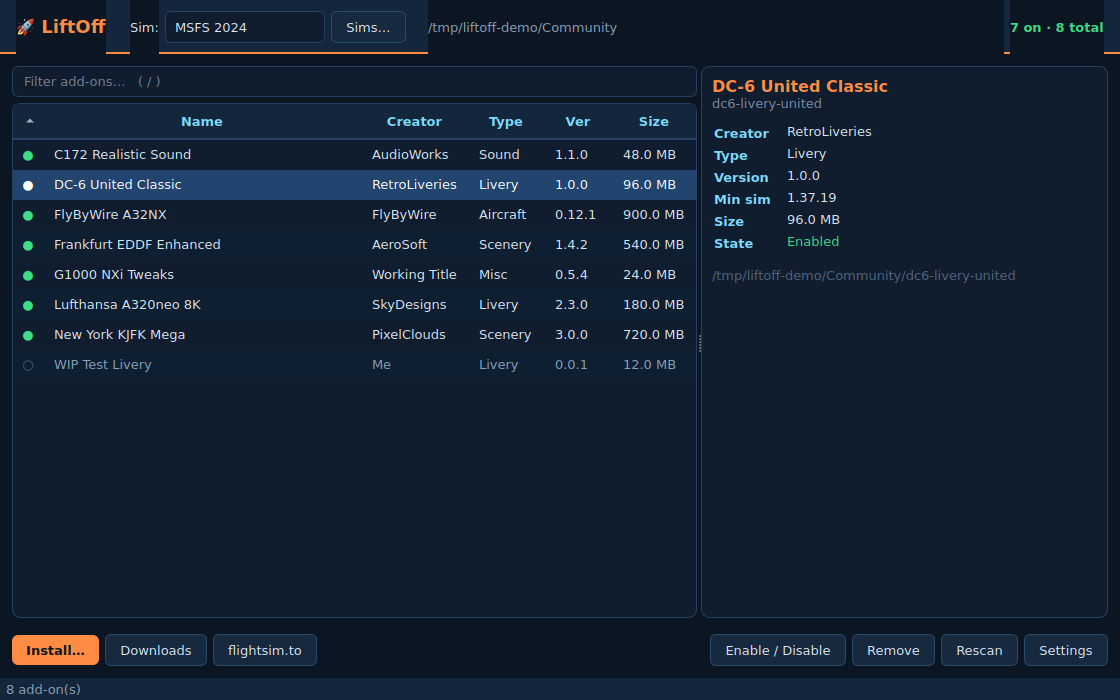
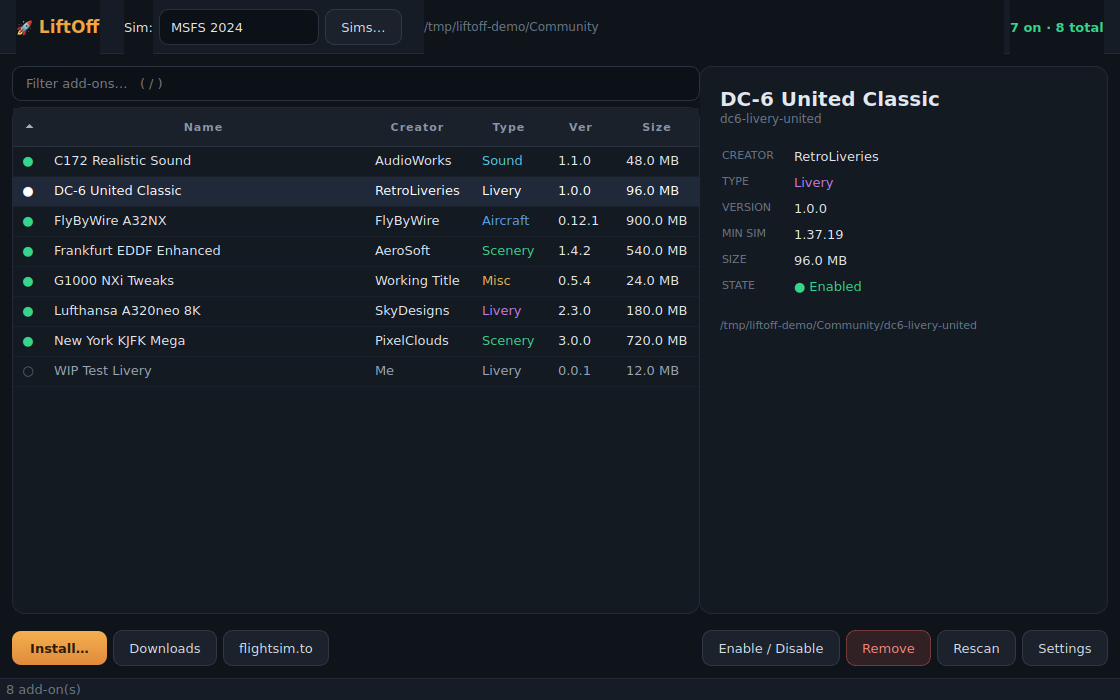
Redesign GUI: dark cockpit theme with color-coded add-on types
Apply the uploaded redesign as a drop-in theme module:
- New liftoff/theme.py holds the Qt stylesheet, detail-panel renderer and
  welcome text — a refined dark "cockpit" palette, pill buttons (amber
  gradient primary, red danger), softer table and richer detail panel.
- gui.py delegates the stylesheet and detail HTML to theme.py; the Type
  column and the detail panel are now color-coded per add-on type, and the
  Remove button uses the red "danger" style.

Pure restyle — no logic changes; full suite still passes, plus a new
color-coding test.

Claude-Session: https://claude.ai/code/session_01Y7d4AmM2GSc4kMKRnyAdYQ

diff --git a/liftoff/theme.py b/liftoff/theme.py
@@ -1,0 +1,204 @@
+"""LiftOff redesigned theme — the PySide6 stylesheet and detail-panel renderer.
+
+Refined dark "cockpit" palette (warm-amber brand, cockpit-green active signal,
+color-coded add-on types), tighter spacing, pill buttons, softer table.
+
+Qt Style Sheets only support a CSS2-ish subset (hex/rgb/rgba, qlineargradient —
+NO oklch, NO flexbox, NO text-transform), so the design's oklch tokens are
+converted to the hex equivalents below.
+
+Fonts: IBM Plex Sans / Mono and Space Grotesk give the intended look; if they
+aren't installed the stack falls back to the system UI font cleanly. To ship
+the exact type, bundle the .ttf files and load them with QFontDatabase at start.
+"""
+
+from html import escape
+
+# ---- palette (oklch -> hex) -------------------------------------------------
+BG_APP = "#0f141b"       # window background        oklch(0.16 0.012 258)
+BG_PANEL = "#161c25"     # topbar / status / footer oklch(0.205 0.014 258)
+BG_SURFACE = "#141a22"   # table / details / lists  oklch(0.195 0.013 258)
+BG_RAIL = "#11161d"      # left rail                oklch(0.18 0.012 258)
+ROW_HOVER = "#1b222c"    #                          oklch(0.235 0.016 258)
+ROW_SEL = "#20293a"      # selected row (bluish)    oklch(0.27 0.032 258)
+HEADER_BG = "#1a212b"
+BORDER = "#2a323f"       #                          oklch(0.30 0.018 258)
+BORDER_SOFT = "#232a35"  #                          oklch(0.27 0.016 258)
+DIVIDER = "#1b212b"
+
+TXT = "#e3e8ef"          #                          oklch(0.93 0.008 258)
+TXT_MUTED = "#9aa6b5"    #                          oklch(0.70 0.018 258)
+TXT_FAINT = "#6b7888"    #                          oklch(0.52 0.02 258)
+
+AMBER = "#f2a541"        # brand / primary          oklch(0.82 0.13 72)
+AMBER_DEEP = "#e08a3c"
+GREEN = "#35d68a"        # enabled / active         oklch(0.80 0.15 155)
+RED = "#e8635a"          # remove / danger
+
+# add-on type accents (shared L/C, varied hue) -------------------------------
+TYPE_AIRCRAFT = "#5aa0f2"
+TYPE_LIVERY = "#c77ce8"
+TYPE_SCENERY = "#3fd08a"
+TYPE_SOUND = "#56c8e0"
+TYPE_MISC = "#f0b455"
+TYPE_INSTRUMENTS = "#ef7ba8"
+
+TYPE_COLORS = {
+    "Aircraft": TYPE_AIRCRAFT, "Livery": TYPE_LIVERY, "Scenery": TYPE_SCENERY,
+    "Sound": TYPE_SOUND, "Misc": TYPE_MISC, "Instruments": TYPE_INSTRUMENTS,
+}
+
+QSS = f"""
+* {{ font-family: 'IBM Plex Sans','Segoe UI',sans-serif; font-size: 13px; }}
+QMainWindow, QDialog, QWidget {{ background: {BG_APP}; color: {TXT}; }}
+
+/* ---- topbar ---- */
+QFrame#topbar {{ background: {BG_PANEL}; border-bottom: 1px solid {BORDER_SOFT}; }}
+QLabel#brand  {{ color: {AMBER}; font-family: 'Space Grotesk','IBM Plex Sans',sans-serif;
+                 font-size: 17px; font-weight: 700; }}
+QLabel#path   {{ color: {TXT_FAINT}; font-family: 'IBM Plex Mono','Consolas',monospace;
+                 font-size: 12px; }}
+QLabel#counts {{ color: {GREEN}; font-weight: 600; }}
+QLabel#hint   {{ color: {TXT_FAINT}; }}
+
+/* ---- inputs ---- */
+QLineEdit, QComboBox {{
+    background: #0c1117; border: 1px solid {BORDER}; border-radius: 9px;
+    padding: 8px 11px; color: {TXT};
+    selection-background-color: {AMBER}; selection-color: #1a1206;
+}}
+QLineEdit:focus, QComboBox:focus {{ border: 1px solid {AMBER}; }}
+QComboBox::drop-down {{ border: none; width: 20px; }}
+QComboBox QAbstractItemView {{
+    background: {BG_SURFACE}; border: 1px solid {BORDER}; border-radius: 8px;
+    selection-background-color: {ROW_SEL}; padding: 4px; outline: none;
+}}
+
+/* ---- add-on table ---- */
+QTableView {{
+    background: {BG_SURFACE}; alternate-background-color: {BG_SURFACE};
+    border: 1px solid {BORDER_SOFT}; border-radius: 12px;
+    gridline-color: transparent;
+    selection-background-color: {ROW_SEL}; selection-color: #ffffff; outline: none;
+}}
+QTableView::item {{ padding: 8px; border: none; border-bottom: 1px solid {DIVIDER}; }}
+QTableView::item:selected {{ background: {ROW_SEL}; }}
+QHeaderView {{ background: transparent; }}
+QHeaderView::section {{
+    background: {HEADER_BG}; color: #8a97a7; padding: 9px 8px;
+    border: none; border-bottom: 1px solid {BORDER};
+    font-size: 11px; font-weight: 600; letter-spacing: 1px;
+}}
+QHeaderView::section:hover {{ color: #cdd6e0; }}
+
+/* ---- detail panel ---- */
+QTextBrowser {{
+    background: {BG_SURFACE}; border: 1px solid {BORDER_SOFT};
+    border-radius: 12px; padding: 16px;
+}}
+
+/* ---- buttons ---- */
+QPushButton {{
+    background: {ROW_HOVER}; color: #d7dee7; border: 1px solid #2f3845;
+    border-radius: 9px; padding: 9px 15px; font-weight: 500;
+}}
+QPushButton:hover  {{ background: #222b37; border-color: #3e4a5a; }}
+QPushButton:pressed {{ background: {BG_PANEL}; }}
+QPushButton#primary {{
+    background: qlineargradient(x1:0,y1:0, x2:0,y2:1,
+                stop:0 #f4b04f, stop:1 {AMBER_DEEP});
+    color: #2a1c08; font-weight: 700; border: none; padding: 9px 18px;
+}}
+QPushButton#primary:hover {{
+    background: qlineargradient(x1:0,y1:0, x2:0,y2:1,
+                stop:0 #f7bd66, stop:1 #e89548);
+}}
+QPushButton#danger {{
+    background: rgba(232,99,90,0.16); color: #f08a82;
+    border: 1px solid rgba(232,99,90,0.42);
+}}
+QPushButton#danger:hover {{ background: rgba(232,99,90,0.26); }}
+
+/* ---- lists (Downloads / Sims dialogs) ---- */
+QListWidget {{
+    background: {BG_SURFACE}; border: 1px solid {BORDER_SOFT}; border-radius: 11px;
+    selection-background-color: {ROW_SEL}; selection-color: #ffffff;
+    padding: 5px; outline: none;
+}}
+QListWidget::item {{ padding: 10px; border-radius: 8px; }}
+QListWidget::item:hover {{ background: {ROW_HOVER}; }}
+QListWidget::item:selected {{ background: {ROW_SEL}; }}
+
+/* ---- checkboxes ---- */
+QCheckBox {{ spacing: 9px; color: #d7dee7; }}
+QCheckBox::indicator {{
+    width: 18px; height: 18px; border-radius: 5px;
+    border: 1px solid #3e4a5a; background: #0c1117;
+}}
+QCheckBox::indicator:checked {{ background: {GREEN}; border-color: {GREEN}; }}
+
+/* ---- status bar ---- */
+QStatusBar {{ background: {BG_PANEL}; color: {TXT_FAINT};
+             border-top: 1px solid {BORDER_SOFT}; }}
+QStatusBar::item {{ border: none; }}
+
+/* ---- splitter & scrollbars ---- */
+QSplitter::handle {{ background: transparent; width: 12px; }}
+QScrollBar:vertical {{ background: transparent; width: 11px; margin: 3px; }}
+QScrollBar:horizontal {{ background: transparent; height: 11px; margin: 3px; }}
+QScrollBar::handle {{ background: #2f3845; border-radius: 5px;
+                     min-height: 28px; min-width: 28px; }}
+QScrollBar::handle:hover {{ background: #3e4a5a; }}
+QScrollBar::add-line, QScrollBar::sub-line {{ width: 0; height: 0; }}
+QScrollBar::add-page, QScrollBar::sub-page {{ background: transparent; }}
+"""
+
+
+# ---- redesigned detail-panel HTML (QTextBrowser renders a CSS2 subset) ------
+def addon_html(addon, human_size) -> str:
+    """Render the detail panel for an add-on (color-coded by type)."""
+    accent = TYPE_COLORS.get(addon.type_label, TYPE_MISC)
+    if addon.enabled:
+        state = f'<span style="color:{GREEN};">&#9679; Enabled</span>'
+    else:
+        state = f'<span style="color:{TXT_MUTED};">&#9675; Disabled</span>'
+    fields = [
+        ("Creator", escape(addon.creator or "—")),
+        ("Type", f'<span style="color:{accent};">{escape(addon.type_label)}</span>'),
+        ("Version", escape(addon.version or "—")),
+        ("Min sim", escape(addon.min_game_version or "—")),
+        ("Size", escape(human_size(addon.size_bytes))),
+        ("State", state),
+    ]
+    rows = "".join(
+        f'<tr>'
+        f'<td style="color:{TXT_FAINT}; padding:4px 18px 4px 0; font-size:11px;">{k.upper()}</td>'
+        f'<td style="color:{TXT}; padding:4px 0;">{v}</td></tr>'
+        for k, v in fields
+    )
+    title = escape(addon.display_title)
+    name = escape(addon.name)
+    path = escape(str(addon.path))
+    return f"""
+    <div style="border-left:3px solid {accent}; padding-left:12px;">
+      <div style="color:{TXT}; font-size:20px; font-weight:700;">{title}</div>
+      <div style="color:{TXT_FAINT}; font-family:'IBM Plex Mono',monospace;
+                  font-size:12px;">{name}</div>
+    </div>
+    <table style="margin-top:16px;">{rows}</table>
+    <div style="color:{TXT_FAINT}; font-family:'IBM Plex Mono',monospace;
+                font-size:11px; margin-top:16px;">{path}</div>
+    """
+
+
+WELCOME = f"""
+<div style="color:{AMBER}; font-size:17px; font-weight:700;">Welcome to LiftOff</div>
+<p style="color:{TXT};">A fast manager for your Microsoft Flight Simulator
+<b>Community</b> folder.</p>
+<ul style="color:{TXT};">
+<li><b>Install</b> an add-on archive, or install straight from <b>Downloads</b></li>
+<li><b>flightsim.to</b> — browse and search the add-on library</li>
+<li><b>Enable / disable</b> and <b>remove</b> without leaving the app</li>
+</ul>
+<p style="color:{TXT_FAINT};">Select an add-on to see its details.</p>
+"""

diff --git a/liftoff/gui.py b/liftoff/gui.py
@@ -7,7 +7,6 @@ run on a Qt thread pool so the UI never blocks.
 from __future__ import annotations
 
 import sys
-from html import escape
 from pathlib import Path
 
 from PySide6.QtCore import (
@@ -45,68 +44,15 @@ from .config import Config
 from .gui_dialogs import DownloadsDialog, FlightSimToDialog, SettingsDialog, SimsDialog
 from .install import InstallError, install_archive, remove, set_enabled
 from .library import Addon, human_size, scan
-
-QSS = """
-* { font-size: 13px; }
-QMainWindow, QDialog, QWidget { background: #0b1622; color: #dce6f2; }
-
-QFrame#topbar { background: #13263b; border-bottom: 2px solid #ff8c42; }
-QLabel#brand { color: #ff8c42; font-size: 18px; font-weight: bold; }
-QLabel#path { color: #8aa0b8; }
-QLabel#counts { color: #3ddc84; font-weight: bold; }
-QLabel#hint { color: #8aa0b8; }
-
-QLineEdit, QComboBox {
-    background: #0f1d2e; border: 1px solid #244062; border-radius: 6px;
-    padding: 6px 9px; selection-background-color: #4aa3ff; selection-color: #0b1622;
-}
-QLineEdit:focus, QComboBox:focus { border: 1px solid #4aa3ff; }
-QComboBox::drop-down { border: none; width: 18px; }
-QComboBox QAbstractItemView {
-    background: #0f1d2e; border: 1px solid #244062; selection-background-color: #21456e;
-}
-
-QTableView {
-    background: #0f1d2e; alternate-background-color: #0d1f31;
-    border: 1px solid #244062; border-radius: 8px; gridline-color: transparent;
-    selection-background-color: #21456e; selection-color: #ffffff;
-    outline: none;
-}
-QTableView::item { padding: 5px 8px; border: none; }
-QHeaderView::section {
-    background: #13263b; color: #7bdcff; padding: 7px 8px;
-    border: none; border-bottom: 2px solid #244062; font-weight: bold;
-}
-
-QTextBrowser {
-    background: #0f1d2e; border: 1px solid #244062; border-radius: 8px; padding: 6px;
-}
-
-QPushButton {
-    background: #16293f; color: #dce6f2; border: 1px solid #2a4a6e;
-    border-radius: 6px; padding: 7px 14px;
-}
-QPushButton:hover { background: #1d3754; border-color: #4aa3ff; }
-QPushButton:pressed { background: #122334; }
-QPushButton#primary { background: #ff8c42; color: #0b1622; font-weight: bold; border: none; }
-QPushButton#primary:hover { background: #ffa15f; }
-
-QListWidget {
-    background: #0f1d2e; border: 1px solid #244062; border-radius: 8px;
-    selection-background-color: #21456e; selection-color: #ffffff;
-}
-QListWidget::item { padding: 6px 8px; }
-
-QStatusBar { background: #13263b; color: #8aa0b8; }
-QCheckBox { spacing: 8px; }
-
-QScrollBar:vertical { background: transparent; width: 10px; margin: 2px; }
-QScrollBar:horizontal { background: transparent; height: 10px; margin: 2px; }
-QScrollBar::handle { background: #2a4a6e; border-radius: 5px; min-height: 24px; min-width: 24px; }
-QScrollBar::handle:hover { background: #3a5a82; }
-QScrollBar::add-line, QScrollBar::sub-line { width: 0; height: 0; }
-QScrollBar::add-page, QScrollBar::sub-page { background: transparent; }
-"""
+from .theme import (
+    GREEN,
+    QSS,
+    TXT_MUTED,
+    TYPE_COLORS,
+    TYPE_MISC,
+    WELCOME as _WELCOME,
+    addon_html as _theme_addon_html,
+)
 
 COLUMNS = ["", "Name", "Creator", "Type", "Ver", "Size"]
 _ROOT = QModelIndex()  # the (invalid) root index used as a parent default
@@ -161,9 +107,11 @@ class AddonTableModel(QAbstractTableModel):
             ][col]
         if role == Qt.ForegroundRole:
             if col == 0:
-                return QColor("#3ddc84") if addon.enabled else QColor("#54627a")
+                return QColor(GREEN) if addon.enabled else QColor("#5a6675")
             if not addon.enabled:
-                return QColor("#8aa0b8")
+                return QColor(TXT_MUTED)
+            if col == 3:  # color-coded add-on type
+                return QColor(TYPE_COLORS.get(addon.type_label, TYPE_MISC))
         if role == Qt.TextAlignmentRole and col == 0:
             return int(Qt.AlignCenter)
         return None
@@ -189,44 +137,10 @@ class _Task(QRunnable):
             self.signals.failed.emit(f"Unexpected error: {exc}")
 
 
-_WELCOME = """
-<div style="color:#ff8c42; font-size:16px; font-weight:bold;">Welcome to LiftOff</div>
-<p style="color:#dce6f2;">A fast manager for your Microsoft Flight Simulator
-<b>Community</b> folder.</p>
-<ul style="color:#dce6f2;">
-<li><b>Install</b> an add-on archive, or install straight from <b>Downloads</b></li>
-<li><b>flightsim.to</b> — browse and search the add-on library</li>
-<li><b>Enable / disable</b> and <b>remove</b> without leaving the app</li>
-</ul>
-<p style="color:#8aa0b8;">Select an add-on to see its details.</p>
-"""
-
-
 def _addon_html(addon: Addon | None) -> str:
     if addon is None:
         return _WELCOME
-    state = ('<span style="color:#3ddc84;">Enabled</span>' if addon.enabled
-             else '<span style="color:#ffb454;">Disabled</span>')
-    fields = [
-        ("Creator", addon.creator or "—"),
-        ("Type", addon.type_label),
-        ("Version", addon.version or "—"),
-        ("Min sim", addon.min_game_version or "—"),
-        ("Size", human_size(addon.size_bytes)),
-        ("State", state),
-    ]
-    rows = "".join(
-        f'<tr><td style="color:#7bdcff; padding:2px 14px 2px 0;"><b>{escape(k)}</b></td>'
-        f'<td>{v if k == "State" else escape(str(v))}</td></tr>'
-        for k, v in fields
-    )
-    title = escape(addon.display_title)
-    return f"""
-    <div style="color:#ff8c42; font-size:16px; font-weight:bold;">{title}</div>
-    <div style="color:#7e8aa0;">{escape(addon.name)}</div>
-    <table style="margin-top:10px;">{rows}</table>
-    <div style="color:#54627a; margin-top:12px;">{escape(str(addon.path))}</div>
-    """
+    return _theme_addon_html(addon, human_size)
 
 
 class LiftOffWindow(QMainWindow):
@@ -356,6 +270,7 @@ class LiftOffWindow(QMainWindow):
         self.toggle_btn = QPushButton("Enable / Disable")
         self.toggle_btn.clicked.connect(self._toggle)
         remove_btn = QPushButton("Remove")
+        remove_btn.setObjectName("danger")
         remove_btn.clicked.connect(self._remove)
         rescan_btn = QPushButton("Rescan")
         rescan_btn.clicked.connect(self._rescan)

diff --git a/tests/test_core.py b/tests/test_core.py
@@ -67,6 +67,17 @@ def test_human_size():
     assert library.human_size(2048) == "2.0 KB"
 
 
+def test_theme_color_codes_type():
+    from liftoff.theme import TYPE_COLORS, addon_html
+
+    addon = library.Addon(
+        name="jet", path=Path("/x/jet"), enabled=True, title="Jet", content_type="AIRCRAFT"
+    )
+    html = addon_html(addon, library.human_size)
+    assert TYPE_COLORS["Aircraft"] in html
+    assert "Jet" in html
+
+
 def test_scan_uses_manifest_total_package_size(tmp_path):
     # When the manifest reports a size, scan must trust it (no disk walk).
     community = tmp_path / "Community"

diff --git a/README.md b/README.md
@@ -22,8 +22,9 @@ natively, on Linux.
 
 ## Features
 
-- **Native desktop GUI** (Qt) — sortable add-on table, live filter, details panel and one-click
-  actions. Plus a full **terminal UI** (`liftoff --tui`) for SSH or keyboard purists.
+- **Native desktop GUI** (Qt) — a refined dark "cockpit" theme with color-coded add-on types,
+  a sortable table, live filter, rich details panel and one-click actions. Plus a full
+  **terminal UI** (`liftoff --tui`) for SSH or keyboard purists.
 - **Auto-detects your sim** — locates the MSFS 2020 & 2024 Community folder inside Steam/Proton
   prefixes by reading `UserCfg.opt` (`InstalledPackagesPath`), including relocated installs and
   extra Steam libraries. Add any folder manually (X-Plane, custom, etc.).
